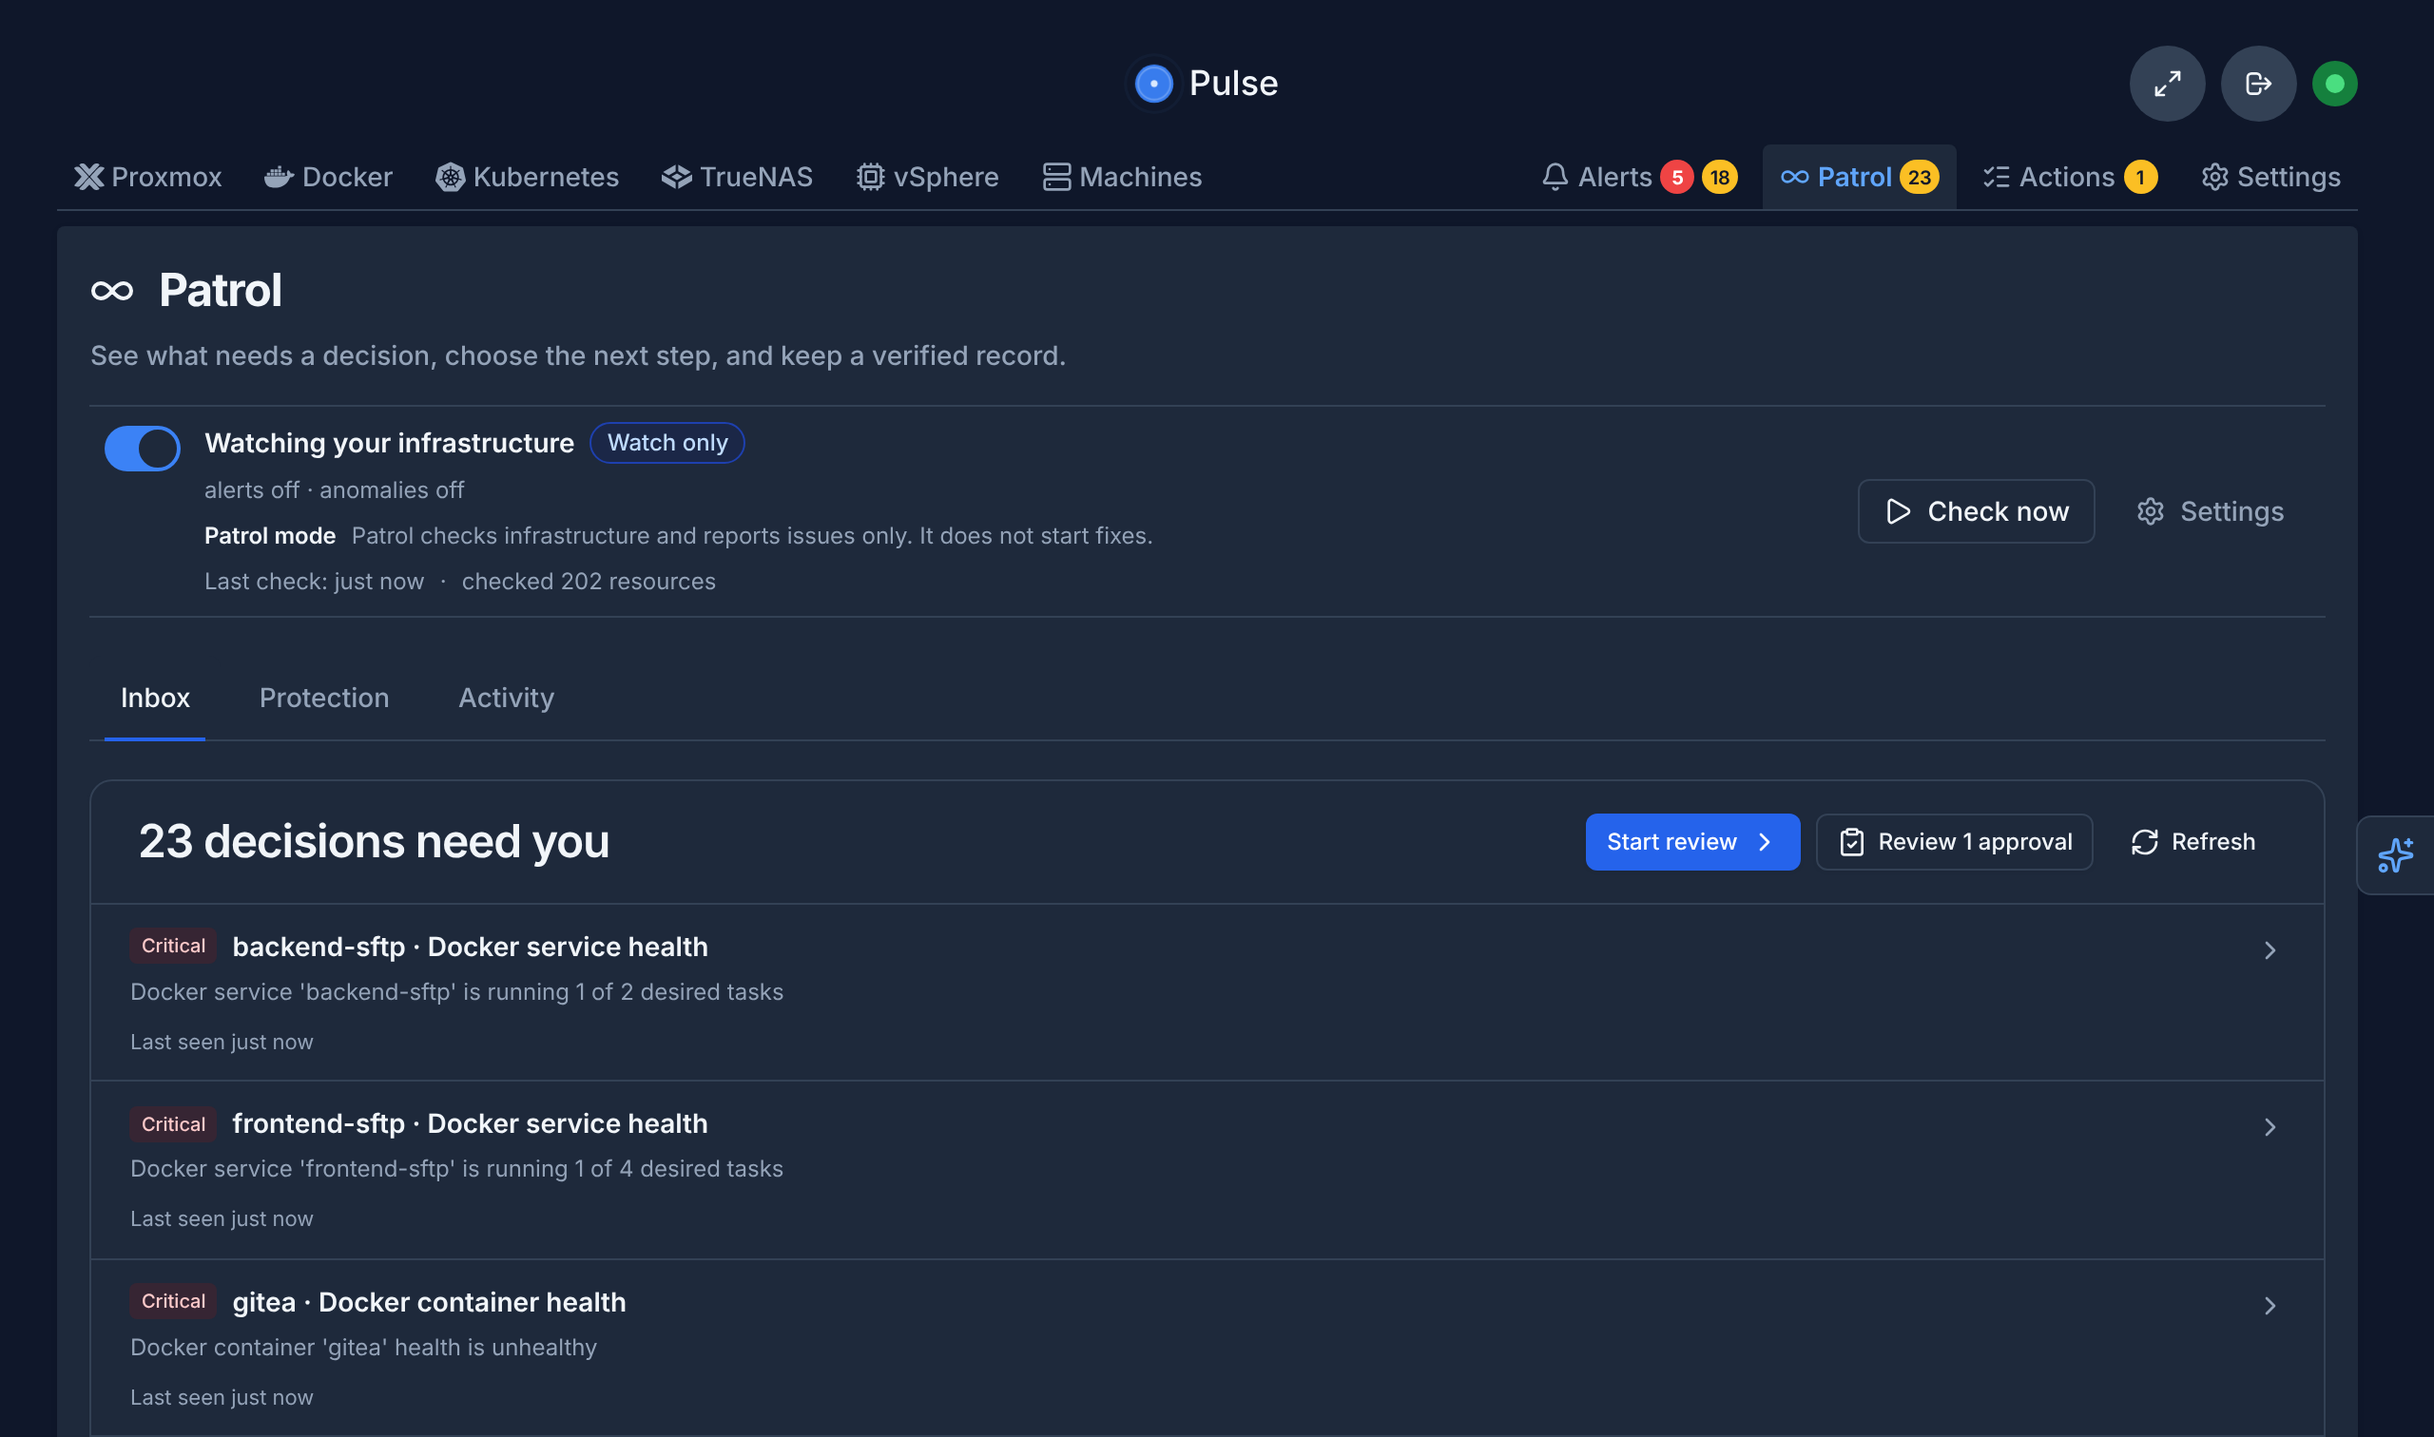
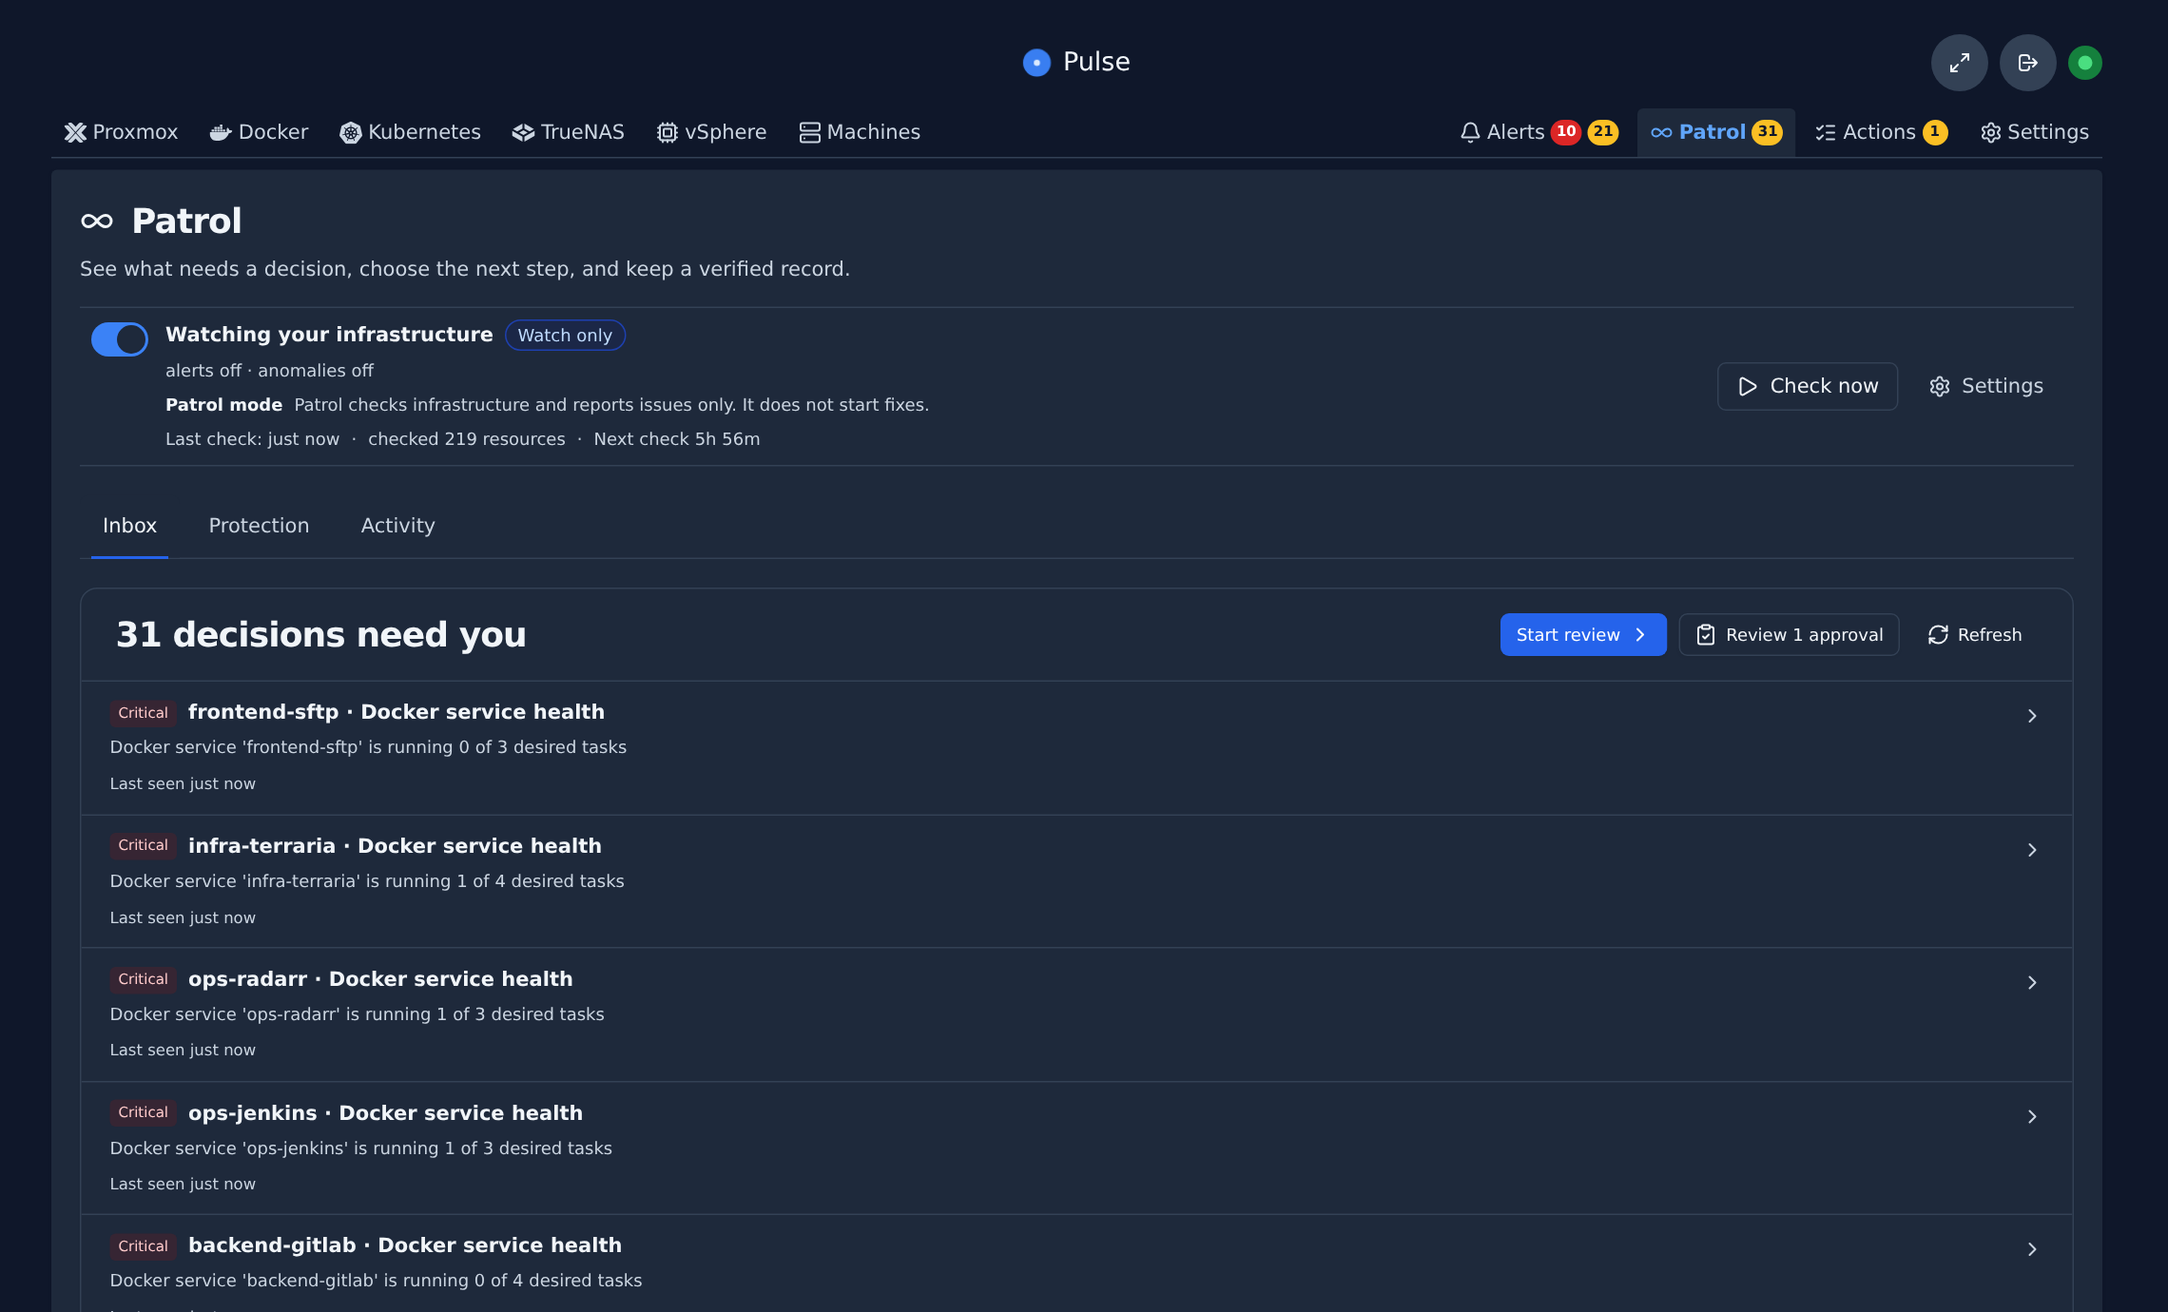
Make GitHub README visual-first with fresh screenshots
Replace the outdated October Proxmox-only screenshot with seven fresh
high-DPI captures from the current UI (Proxmox overview hero plus a
2x3 gallery covering Docker, Kubernetes, Alerts, Backup coverage/PBS,
Metric history, and Pulse Patrol) and cut the prose roughly in half
so visitors can scan the product in seconds.

diff --git a/README.md b/README.md
@@ -12,56 +12,66 @@
   [Live demo](https://demo.pulserelay.pro) · [Documentation](docs/README.md) · [Releases](https://github.com/rcourtman/Pulse/releases) · [Discussions](https://github.com/rcourtman/Pulse/discussions)
 </div>
 
-Pulse is a self-hosted dashboard and alerting tool for your homelab or
-infrastructure. Point it at Proxmox, Docker, Kubernetes, TrueNAS, vSphere or
-your own Linux, Windows and macOS machines to see their health in one place,
-keep the history, and get alerted when something breaks: a failed backup, a
-filling disk, an unhealthy container, or a node that drops offline.
+Pulse is a self-hosted monitoring and alerting dashboard for Proxmox, Docker,
+Kubernetes, TrueNAS, vSphere, and Linux/Windows/macOS hosts. One lightweight
+server tracks health, backups, availability checks, and metric history — and
+alerts you when something needs attention.
 
 ![Pulse Proxmox overview](docs/images/pulse-workspace.png)
 
-Try the [Proxmox overview](https://demo.pulserelay.pro) or
-[Docker hosts and containers](https://demo.pulserelay.pro/docker/overview) in
-the live demo — no sign-up required, running on sample data.
+<p align="center">
+  Try the <a href="https://demo.pulserelay.pro">live demo</a> (Proxmox, <a href="https://demo.pulserelay.pro/docker/overview">Docker</a>, Kubernetes, Alerts) — no sign-up required.
+</p>
 
-## What Pulse does
+## Inside Pulse
 
-- **Gives each platform its own view.** Proxmox, Docker, Kubernetes, TrueNAS,
-  vSphere and standalone hosts each get a layout built around how you already
-  operate them, with storage and backups next to the systems they belong to.
-- **Alerts you when it matters.** Set thresholds for CPU, memory, disk,
-  temperature and more, delivered by email, Discord, Slack, Teams, Telegram,
-  ntfy, Gotify, Pushover, PagerDuty or webhooks.
-  [Alerting guide](docs/ALERTING.md).
-- **Monitors what can't run an agent.** Ping, TCP, UDP and HTTP(S) checks cover
-  routers, printers and web services, including TLS certificate-expiry warnings.
-  [Availability checks](docs/AVAILABILITY.md).
-- **Keeps metric history.** Charts and history for every guest, container and
-  host without external time-series infrastructure.
-- **Optional AI checks.** Connect your own AI provider or local model so Pulse
-  Patrol can flag issues on a schedule without someone staring at a dashboard.
-- **Answers your own AI agent.** Connect Claude Code, Codex or OpenCode via
-  [`pulse-mcp`](cmd/pulse-mcp/README.md#quick-start) with a read-only token and
-  [ask what changed overnight](docs/WHAT_HAPPENED_OVERNIGHT.md).
-- **Hands-off by default.** Proxmox uses a read-only API token, credentials are
-  encrypted at rest, and remote agent commands stay off unless you enable them.
+<table>
+  <tr>
+    <td width="50%" valign="top">
+      <a href="docs/images/pulse-docker.png"><img src="docs/images/pulse-docker.png" alt="Docker hosts and containers" /></a><br />
+      <strong>Docker &amp; Podman</strong> — hosts, containers, Compose stacks, Swarm health, and image updates without mounting the Docker socket on Pulse.
+    </td>
+    <td width="50%" valign="top">
+      <a href="docs/images/pulse-kubernetes.png"><img src="docs/images/pulse-kubernetes.png" alt="Kubernetes clusters and workloads" /></a><br />
+      <strong>Kubernetes</strong> — multi-cluster health, degraded nodes, pods, deployments, storage, and events in one view.
+    </td>
+  </tr>
+  <tr>
+    <td width="50%" valign="top">
+      <a href="docs/images/pulse-alerts.png"><img src="docs/images/pulse-alerts.png" alt="Active alerts and notifications" /></a><br />
+      <strong><a href="docs/ALERTING.md">Alerts</a> &amp; <a href="docs/AVAILABILITY.md">Availability</a></strong> — thresholds plus Ping/TCP/UDP/HTTP(S) &amp; TLS checks via email, Discord, Slack, Telegram, ntfy, Gotify, Pushover, PagerDuty, or webhooks.
+    </td>
+    <td width="50%" valign="top">
+      <a href="docs/images/pulse-backups.png"><img src="docs/images/pulse-backups.png" alt="Proxmox backup coverage and PBS datastores" /></a><br />
+      <strong>Backup coverage &amp; PBS</strong> — spot unprotected guests, stale backups, and failed sync jobs across PVE and Proxmox Backup Server.
+    </td>
+  </tr>
+  <tr>
+    <td width="50%" valign="top">
+      <a href="docs/images/pulse-history.png"><img src="docs/images/pulse-history.png" alt="Metric history and filesystem diagnostics" /></a><br />
+      <strong>Built-in metric history</strong> — CPU, memory, disk, network I/O, and filesystem charts for every host, guest, and container without external databases.
+    </td>
+    <td width="50%" valign="top">
+      <a href="docs/images/pulse-patrol.png"><img src="docs/images/pulse-patrol.png" alt="Pulse Patrol attention inbox" /></a><br />
+      <strong>Optional AI &amp; MCP</strong> — <a href="docs/AI.md">Pulse Patrol</a> runs scheduled checks with your own AI provider or local model; <a href="cmd/pulse-mcp/README.md#quick-start"><code>pulse-mcp</code></a> lets Claude Code, Codex, or OpenCode <a href="docs/WHAT_HAPPENED_OVERNIGHT.md">ask what changed overnight</a>.
+    </td>
+  </tr>
+</table>
 
 ## Supported platforms
 
-| Platform | What Pulse shows |
+| Platform | What Pulse monitors |
 |---|---|
-| Proxmox VE, PBS and PMG | Nodes, VMs and containers, storage, backups, replication, Ceph and mail gateways |
-| Docker and Podman | Hosts, containers, Compose projects, Swarm services, health, images and updates |
-| Kubernetes | Clusters, nodes, workloads, pods, services, storage and events |
-| TrueNAS SCALE and CORE | Pools, datasets, disks, snapshots, replication tasks, apps and VMs |
-| Linux, Windows and macOS | Host health, filesystems, networking, temperatures, RAID and availability |
-| VMware vSphere (early access) | Hosts, clusters, VMs, datastores, networks and snapshots; validate against your own vCenter before relying on it |
+| Proxmox VE, PBS &amp; PMG | Nodes, VMs, LXCs, storage, backups, replication, Ceph, mail gateways |
+| Docker &amp; Podman | Hosts, containers, Compose projects, Swarm services, image updates |
+| Kubernetes | Clusters, nodes, workloads, pods, services, storage, events |
+| TrueNAS SCALE &amp; CORE | Pools, datasets, disks, snapshots, replication, apps, VMs |
+| Linux, Windows &amp; macOS | Host health, filesystems, networking, temperatures, RAID, availability |
+| VMware vSphere *(early access)* | Hosts, clusters, VMs, datastores, networks, snapshots |
 
 ## Install
 
-Pulse runs as a single container or Linux service on port `7655`. Commands
-below target the current stable release; swap the tag if a
-[newer release](https://github.com/rcourtman/Pulse/releases/latest) is out.
+Single container or Linux service on port `7655` (swap the tag if a [newer release](https://github.com/rcourtman/Pulse/releases/latest) is out).
 
 ### Docker
 
@@ -96,13 +106,9 @@ volumes:
 
 </details>
 
-The Pulse container does not need the Docker socket; Docker hosts report via the
-agent below.
-
 ### Proxmox LXC or Linux
 
-The server installer is signed. Paste the full block to download, verify against
-the pinned `pulse-installer` key, and run it only if verification succeeds:
+Signed installer — downloads, verifies against the pinned `pulse-installer` key, then runs:
 
 ```bash
 export PULSE_VERSION=v6.8.0
@@ -116,88 +122,39 @@ ssh-keygen -Y verify \
 bash install.sh --version "${PULSE_VERSION}"
 ```
 
-Also available: [Kubernetes with Helm](docs/KUBERNETES.md) and the
-[full install guide](docs/INSTALL.md).
+Also available: [Kubernetes with Helm](docs/KUBERNETES.md) · [Full install guide](docs/INSTALL.md).
 
 ### First run
 
-Open `http://<your-ip>:7655` and paste the one-time setup token from
-`docker exec pulse /app/pulse bootstrap-token` (Docker) or
-`sudo pulse bootstrap-token` (Linux). Create your admin account, then add your
-first system under **Settings → Infrastructure → Add infrastructure**.
+Open `http://<your-ip>:7655`, paste the one-time token from `docker exec pulse /app/pulse bootstrap-token` (Docker) or `sudo pulse bootstrap-token` (Linux), create your admin account, and add your first system under **Settings → Infrastructure**.
 
 ### Do you need an agent?
 
-Often not. Proxmox VE, PBS and PMG connect over their API with a read-only
-token, so no Pulse host agent is required. Install the unified agent where an
-API cannot reach what you need: Docker and Podman hosts, Kubernetes, standalone
-machines, or host SMART health and temperatures.
-
-Agents — including v5-to-v6 agent upgrades — are installed with the per-host
-command under **Settings → Infrastructure → Install on a host**. Command
-execution is off by default, the local listener binds to localhost, and Linux
-supports `--least-privilege`. See the [agent security model](docs/AGENT_SECURITY.md).
+**Often not.** Proxmox VE, PBS and PMG connect over their API with a read-only token, so no Pulse host agent is required. Install the unified agent (including v5-to-v6 agent upgrades) from **Settings → Infrastructure → Install on a host** for Docker/Podman, Kubernetes, standalone machines, or SMART/temperature sensors — command execution stays off by default ([agent security model](docs/AGENT_SECURITY.md)).
 
 > [!NOTE]
-> Even without a Pulse host agent, Proxmox VM disk and memory queries use QEMU
-> Guest Agent, which shares the channel used by freeze-enabled backups. Read the
-> [backup safety precaution](docs/VM_DISK_MONITORING.md#backup-safety) before
-> changing guest-agent settings or probing VMs during backups.
+> Proxmox VM disk/memory queries use QEMU Guest Agent, which shares the channel used by freeze-enabled backups — read the [backup safety precaution](docs/VM_DISK_MONITORING.md#backup-safety) before changing guest-agent settings during backups.
 
 ## Editions
 
-- **Community** (free, this repository): self-hosted monitoring, core SSO,
-  update alerts, and Patrol with your own AI provider or local model.
-- **Pro**: Community plus Patrol investigation and fixes, centralized agent
-  profiles, RBAC, audit logging and reporting.
-- **MSP**: isolated per-client workspaces under one Pulse Account, with a
-  60-day free trial for two clients at [Pulse for MSPs](https://pulserelay.pro/msp).
-
-Core self-hosted monitoring is not gated by how many systems or child resources
-you monitor. See the [capability reference](docs/PULSE_PRO.md) and
-[current plans](https://pulserelay.pro).
+- **Community (free, MIT):** full self-hosted monitoring (not gated by system or resource count), core SSO, update alerts, and Patrol with your own AI provider or local model.
+- **Pro:** Community plus Patrol investigation/fixes, centralized agent profiles, RBAC, audit logging, and reporting ([capability reference](docs/PULSE_PRO.md) · [plans](https://pulserelay.pro)).
+- **MSP:** isolated per-client workspaces under one Pulse Account — 60-day free trial for two clients at [Pulse for MSPs](https://pulserelay.pro/msp).
 
 > [!IMPORTANT]
-> GitHub releases and `rcourtman/pulse` are Community builds. Pro and eligible
-> legacy customers should install from the
-> [Pulse download portal](https://pulserelay.pro/download.html).
-> Relay is no longer sold — existing subscribers keep Pro features at their
-> current price, and paired phones keep working until **31 March 2027**
-> ([details](docs/PULSE_PRO.md)).
+> GitHub releases and `rcourtman/pulse` are Community builds; Pro and legacy customers download from the [Pulse download portal](https://pulserelay.pro/download.html). Relay is no longer sold — existing subscribers keep Pro features at their current price, and paired phones keep working until **31 March 2027** ([details](docs/PULSE_PRO.md)).
 
 ## Documentation
 
-- [Install](docs/INSTALL.md) · [Production security](docs/PRODUCTION_SECURITY.md) · [Upgrading from v5](docs/UPGRADE_v6.md) · [Configuration](docs/CONFIGURATION.md)
-- [Platform and agent guides](docs/README.md#platforms-and-agents) · [Pulse Intelligence](docs/AI.md) · [Releases and update channels](docs/RELEASE_PROCESS.md)
-- [Troubleshooting](docs/TROUBLESHOOTING.md) · [API](docs/API.md) · [Architecture](ARCHITECTURE.md) · [Security](SECURITY.md) · [Privacy](docs/PRIVACY.md) · [Code signing](docs/CODE_SIGNING_POLICY.md)
-
-Other languages: [Deutsch](docs/i18n/de/README.md) · [Español](docs/i18n/es/README.md) · [Français](docs/i18n/fr/README.md)
+- **Docs:** [Install](docs/INSTALL.md) · [Upgrading from v5](docs/UPGRADE_v6.md) · [Configuration](docs/CONFIGURATION.md) · [Production security](docs/PRODUCTION_SECURITY.md) · [API](docs/API.md) · [Troubleshooting](docs/TROUBLESHOOTING.md) · [Architecture](ARCHITECTURE.md) · [Security](SECURITY.md) · [Privacy](docs/PRIVACY.md) · [Code signing](docs/CODE_SIGNING_POLICY.md)
+- **Other languages:** [Deutsch](docs/i18n/de/README.md) · [Español](docs/i18n/es/README.md) · [Français](docs/i18n/fr/README.md)
 
 ## Community and support
 
-- Questions and ideas: [GitHub Discussions](https://github.com/rcourtman/Pulse/discussions)
-- Bugs: [GitHub Issues](https://github.com/rcourtman/Pulse/issues) — read the [safe reporting guidance](docs/TROUBLESHOOTING.md#-getting-help) first and keep credentials out of public attachments.
-- Home Assistant: community-maintained [Pulse add-ons](https://github.com/Kosztyk/homeassistant-addons)
-- Support development: [GitHub Sponsors](https://github.com/sponsors/rcourtman) or [Ko-fi](https://ko-fi.com/rcourtman)
+- [GitHub Discussions](https://github.com/rcourtman/Pulse/discussions) · [GitHub Issues](https://github.com/rcourtman/Pulse/issues) (read the [safe reporting guidance](docs/TROUBLESHOOTING.md#-getting-help) first and keep credentials out of public attachments) · [Home Assistant add-ons](https://github.com/Kosztyk/homeassistant-addons) · [GitHub Sponsors](https://github.com/sponsors/rcourtman) · [Ko-fi](https://ko-fi.com/rcourtman)
 
-## Development
+## Development & license
 
-Pulse is Go 1.26 with a SolidJS and TypeScript frontend. The managed dev
-runtime serves the frontend at `http://127.0.0.1:5173` and proxies API and
-WebSocket traffic to port `7655`:
+Go 1.26 + SolidJS/TypeScript (`npm ci && npm --prefix frontend-modern ci && npm run dev`, proxies `:5173` → `:7655`). See [CONTRIBUTING.md](CONTRIBUTING.md) before opening changes (Pulse works issue-first).
 
-```bash
-npm ci
-npm --prefix frontend-modern ci
-npm run dev
-```
-
-Read [CONTRIBUTING.md](CONTRIBUTING.md) before starting on a change: Pulse
-works issue-first and does not normally accept unsolicited pull requests.
-
-## License
-
-Everything in this repository is [MIT licensed](LICENSE) — no dual licensing
-and no source-available code. Pulse Pro is a separate commercial product built
-from private sources and sold through [pulserelay.pro](https://pulserelay.pro)
-under its own [Terms of Service](TERMS.md).
+Everything in this repository is [MIT licensed](LICENSE) — no dual licensing or source-available code. Pulse Pro is a separate commercial product at [pulserelay.pro](https://pulserelay.pro) ([Terms of Service](TERMS.md)).
